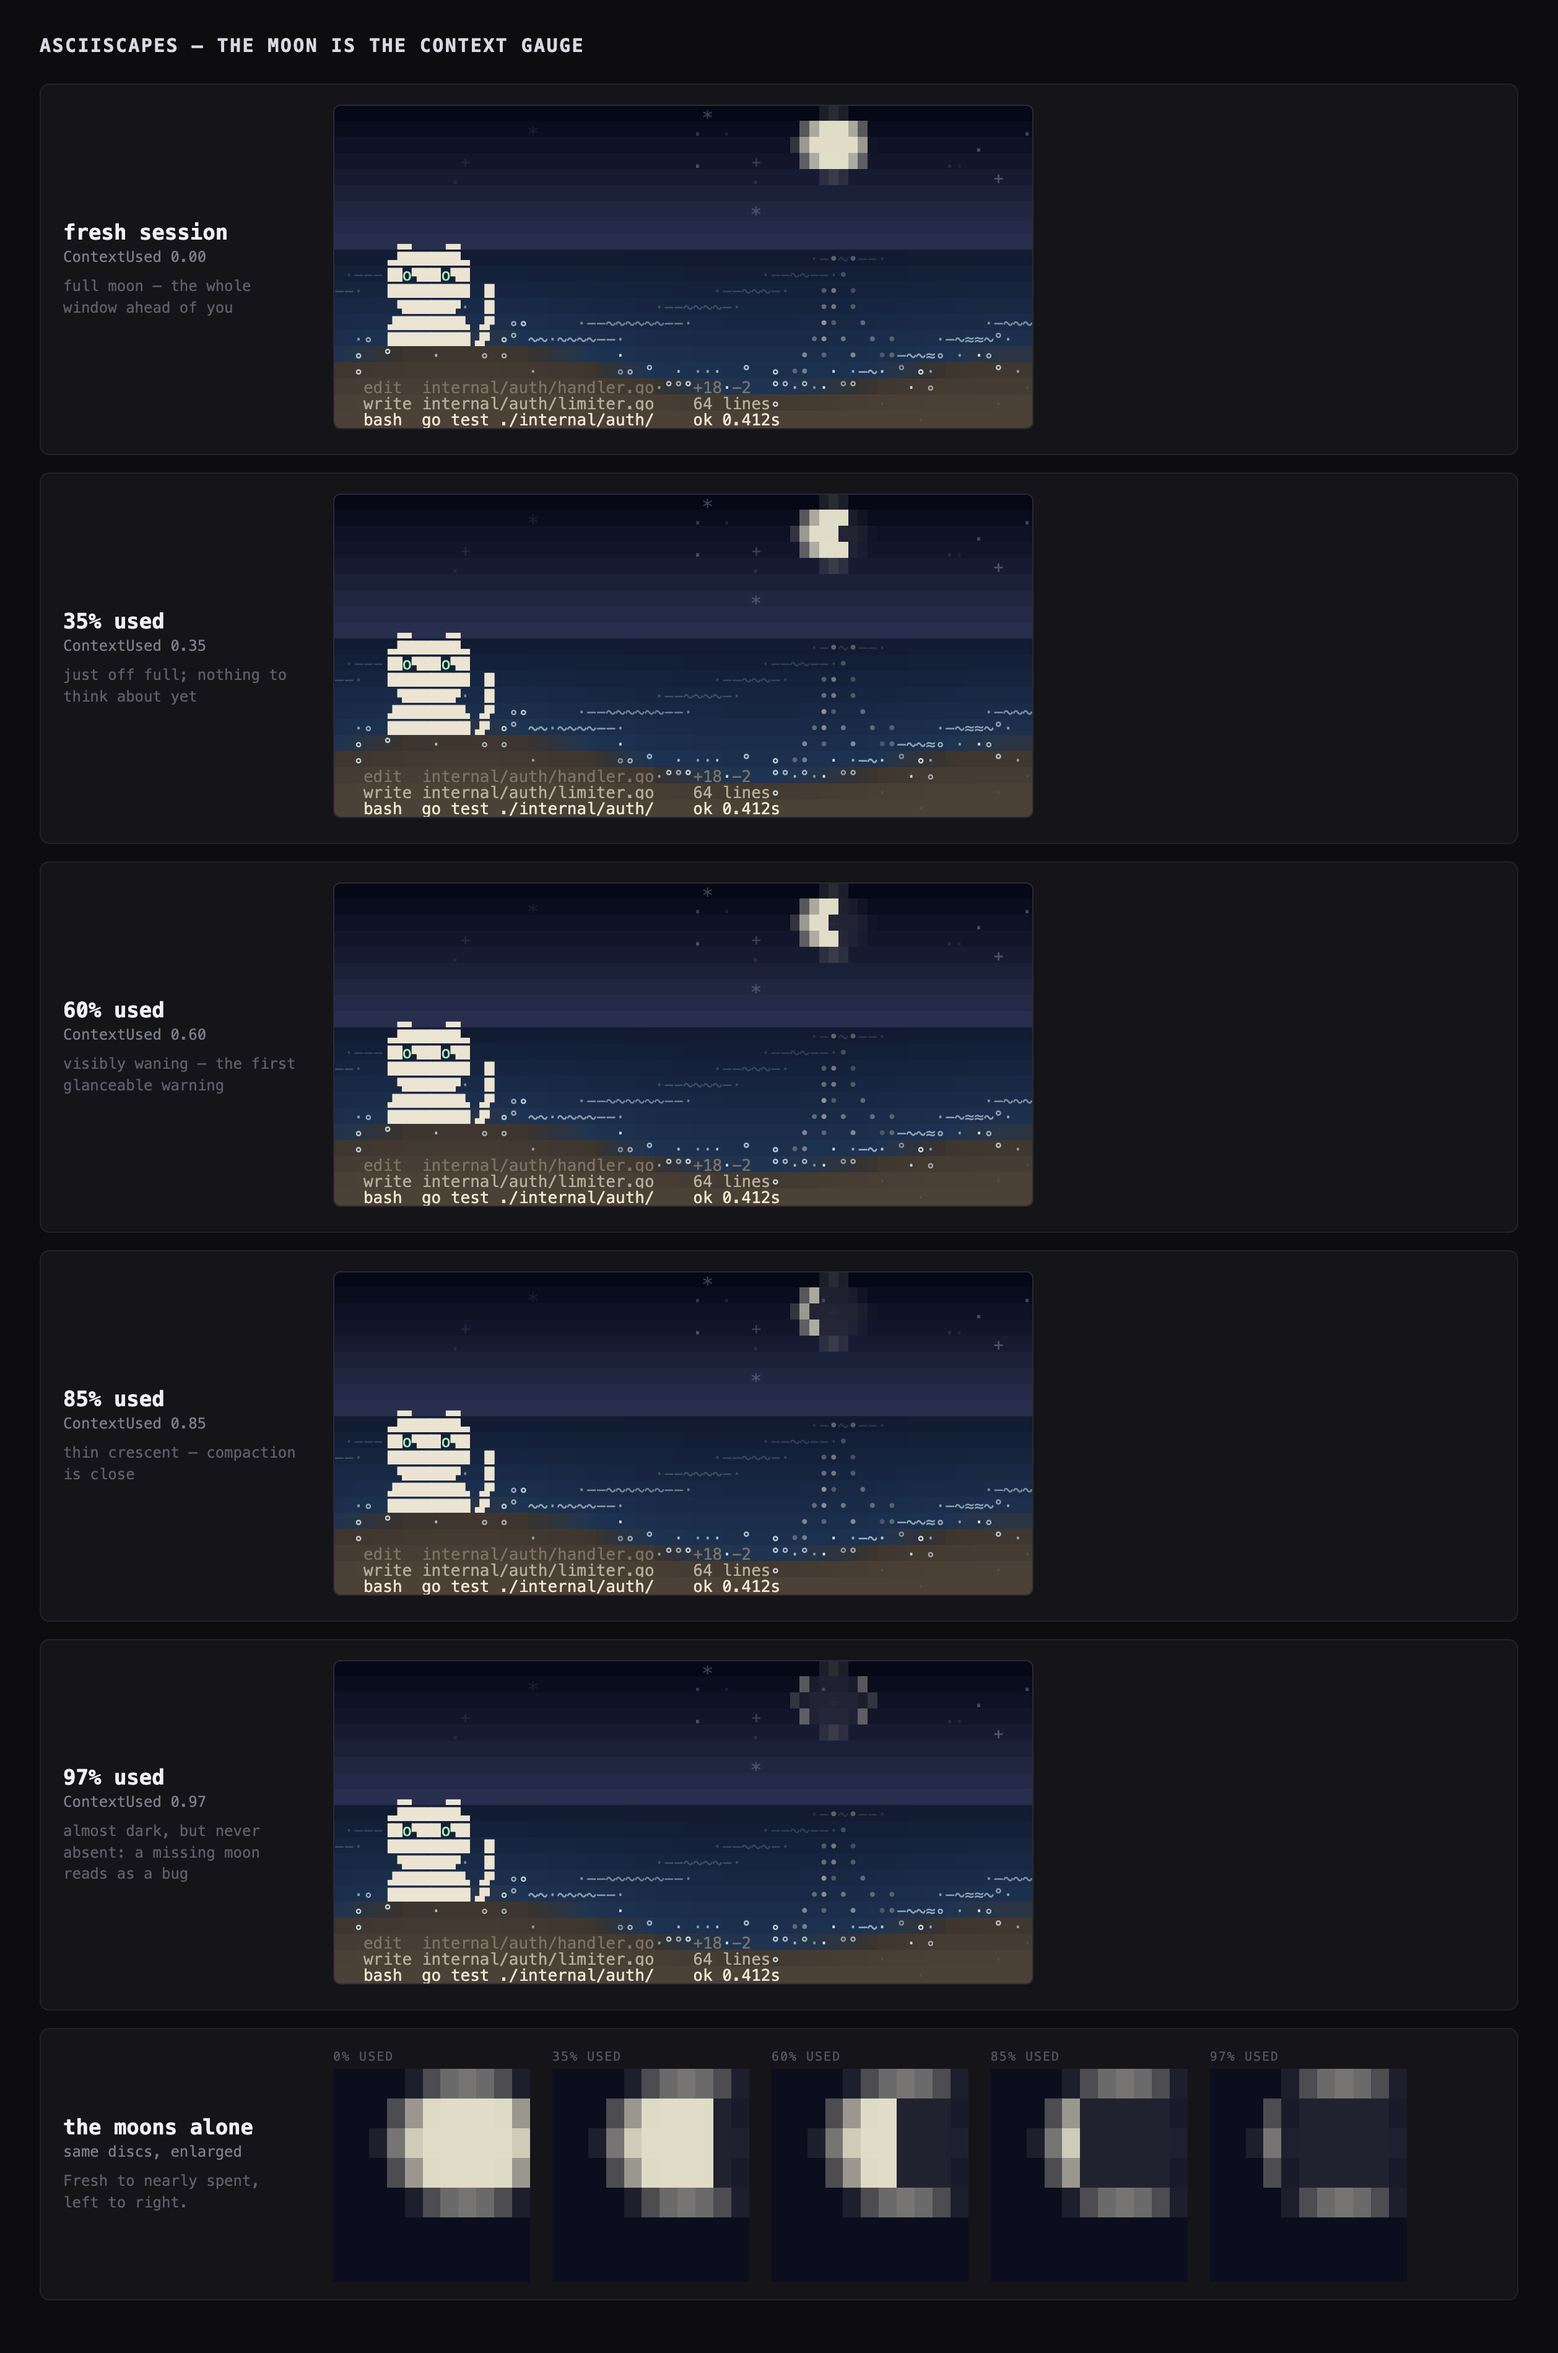
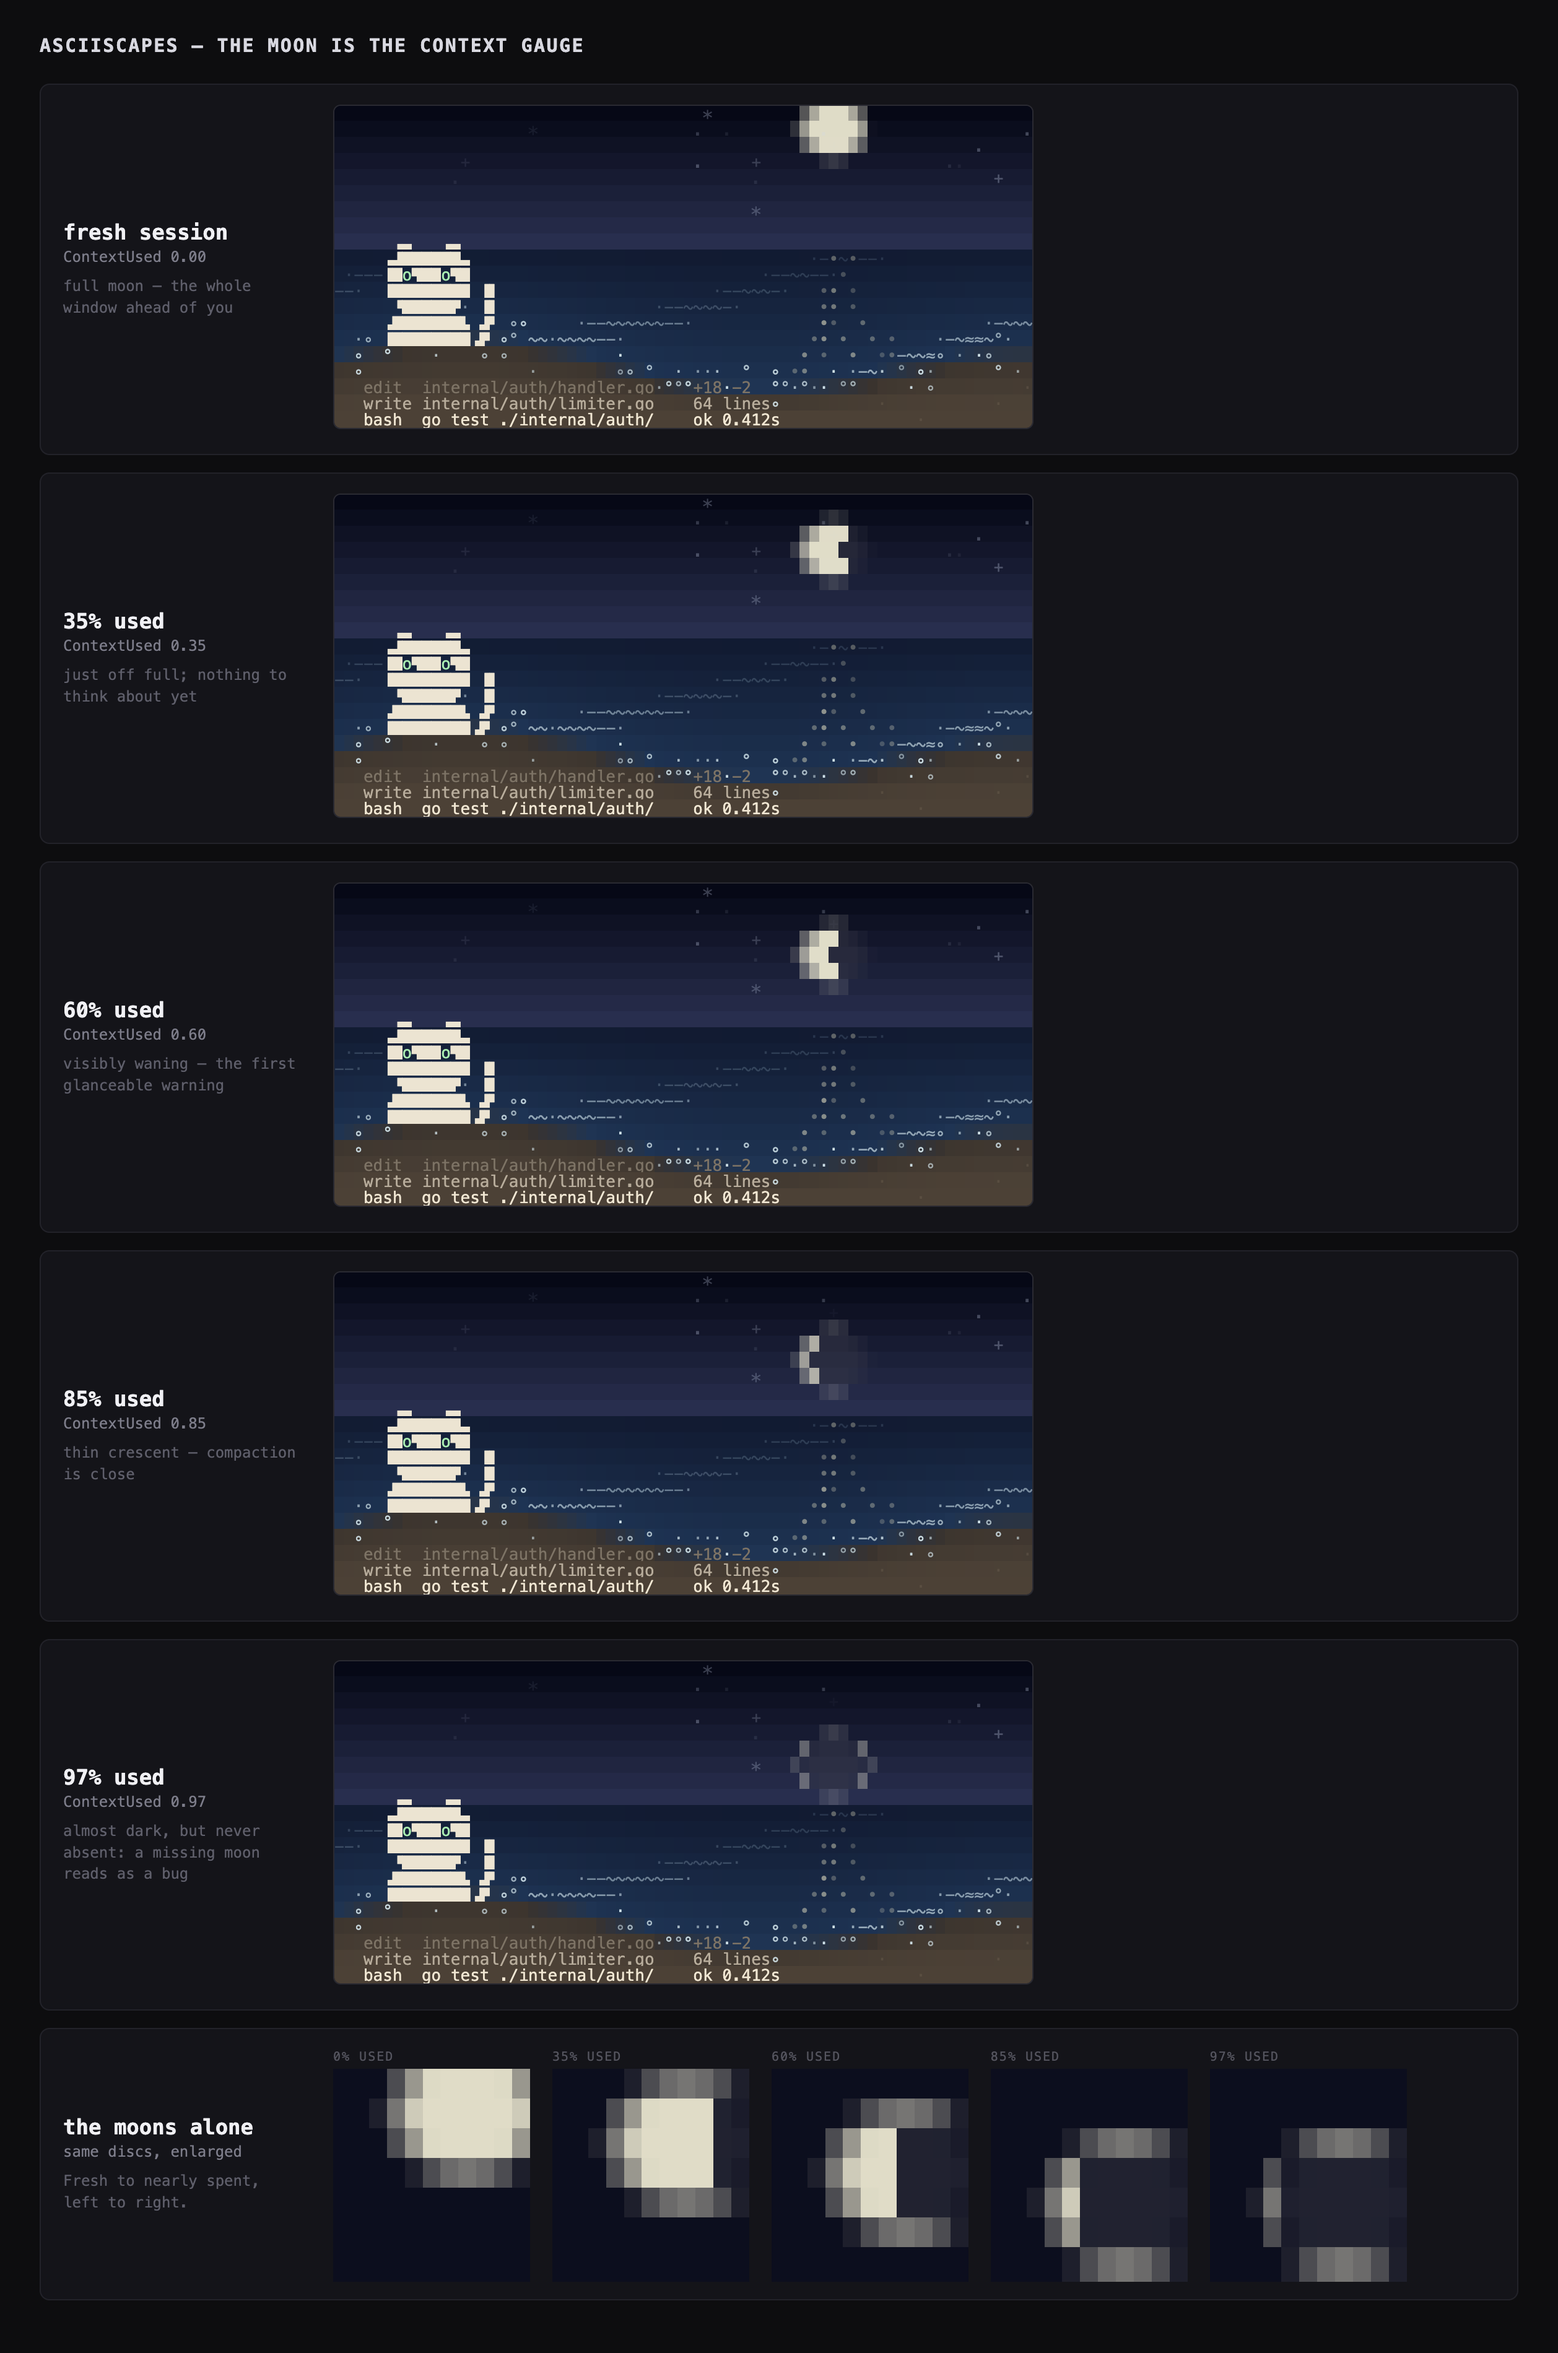
Live terminal mode, and the moon sinks as well as wanes
-live paints the scape in the real terminal until Ctrl-C, sizing itself
via stty rather than pulling in a dependency for one ioctl. It homes the
cursor and overwrites instead of clearing each frame, which is what
makes terminal animation flicker.

This is the only view that proves anything: the HTML harness models
glyph advances, a terminal paints a fixed cell grid, and the two
disagree about non-ASCII glyphs.

Verified: the static frame emits 318 256-colour SGRs and zero truecolor
in Terminal.app, so the TERM_PROGRAM gate holds end to end; the override
still reaches truecolor; the loop runs at 20fps.

The moon now carries context in altitude as well as phase. Shape alone
is hard to judge on a five-cell disc; height above the horizon is easy,
because the horizon is a reference line right there.

Claude-Session: https://claude.ai/code/session_019PBtf39rtmaj5ru2XNdm5i

diff --git a/live.go b/live.go
@@ -1,0 +1,86 @@
+package main
+
+import (
+	"fmt"
+	"os"
+	"os/exec"
+	"os/signal"
+	"strconv"
+	"strings"
+	"syscall"
+	"time"
+
+	"github.com/donlucasx/asciiscapes/internal/canvas"
+	"github.com/donlucasx/asciiscapes/internal/companion"
+	"github.com/donlucasx/asciiscapes/internal/scape"
+	"github.com/donlucasx/asciiscapes/internal/term"
+)
+
+// termSize asks stty rather than pulling in a dependency for one ioctl.
+// Falls back to the design target when it cannot tell.
+func termSize() (w, h int) {
+	out, err := exec.Command("stty", "size").Output()
+	if err == nil {
+		if f := strings.Fields(string(out)); len(f) == 2 {
+			if r, err1 := strconv.Atoi(f[0]); err1 == nil {
+				if c, err2 := strconv.Atoi(f[1]); err2 == nil && r > 4 && c > 8 {
+					return c, r
+				}
+			}
+		}
+	}
+	return 80, 24
+}
+
+// runLive paints the scape to this terminal until interrupted. This is the
+// only view that proves anything: the HTML harness models glyph advances, a
+// terminal paints a fixed cell grid, and they disagree about non-ASCII glyphs.
+func runLive(seed int64, fps float64, wIn, hIn int, ctxUsed float64, ascii bool) {
+	w, h := wIn, hIn
+	if w <= 0 || h <= 0 {
+		w, h = termSize()
+		h-- // leave the prompt a row to come back to
+	}
+
+	c := canvas.New(w, h, canvas.AlphaFar, canvas.AlphaMid, canvas.AlphaNear)
+	sh := scape.NewShore(seed, ascii)
+	cat := companion.NewCat()
+	_, chh := cat.Size()
+
+	restore := func() { fmt.Print("\x1b[?25h\x1b[0m\n") }
+	sig := make(chan os.Signal, 1)
+	signal.Notify(sig, os.Interrupt, syscall.SIGTERM)
+	go func() { <-sig; restore(); os.Exit(0) }()
+
+	fmt.Print("\x1b[?25l\x1b[2J") // hide cursor, clear once
+	defer restore()
+
+	profile := term.DetectProfile()
+	tick := time.NewTicker(time.Duration(float64(time.Second) / fps))
+	defer tick.Stop()
+
+	start := time.Now()
+	for range tick.C {
+		t := time.Since(start).Seconds()
+		// Swing through the states so every behaviour is visible in one sitting.
+		st, act := companion.Working, scape.Activity{Working: true, Level: 0.65, ContextUsed: ctxUsed}
+		switch phase := int(t/8) % 3; phase {
+		case 1:
+			st, act = companion.Resting, scape.Activity{ContextUsed: ctxUsed}
+		case 2:
+			st = companion.NeedsYou
+		}
+
+		sh.Update(c, t, act)
+		top := c.H - 2 - chh
+		cat.Draw(c.Near(), 5, top, t, st)
+		if st == companion.NeedsYou {
+			rows := companion.Bubble("tests passed")
+			(&companion.Sprite{Rows: rows, Body: bubbleCol}).Draw(c.Near(), 12, top-len(rows))
+		}
+
+		// Home the cursor and overwrite rather than clearing: clearing every
+		// frame is what makes a terminal animation flicker.
+		fmt.Print("\x1b[H" + c.Render(profile))
+	}
+}

diff --git a/main.go b/main.go
@@ -33,6 +33,8 @@ func main() {
 		strip   = flag.String("strip", "", "write a frame strip (for GIF assembly) to an HTML file")
 		layout  = flag.String("layout", "", "write the layout mockups to an HTML file")
 		ctxdemo = flag.String("context", "", "write the context-moon demo to an HTML file")
+		live    = flag.Bool("live", false, "paint the scape in THIS terminal until Ctrl-C")
+		ctxUsed = flag.Float64("ctx", 0, "context used, 0..1 (moon phase and altitude)")
 		mode    = flag.String("mode", "working", "strip mode: resting|working|needsyou|walk")
 	)
 	flag.Parse()
@@ -54,6 +56,18 @@ func main() {
 	c := canvas.New(*width, *height, canvas.AlphaFar, canvas.AlphaMid, canvas.AlphaNear)
 	sc := scape.NewShore(*seed, *asciiG)
 	profile := term.DetectProfile()
+
+	if *live {
+		wl, hl := 0, 0
+		if isSet("w") {
+			wl = *width
+		}
+		if isSet("h") {
+			hl = *height
+		}
+		runLive(*seed, *fps, wl, hl, *ctxUsed, *asciiG)
+		return
+	}
 
 	if *ctxdemo != "" {
 		if err := os.WriteFile(*ctxdemo, []byte(contextPage(*seed)), 0o644); err != nil {
@@ -130,4 +144,16 @@ func main() {
 			fmt.Println()
 		}
 	}
+}
+
+// isSet reports whether a flag was given explicitly, so -live can size itself
+// to the real terminal unless told otherwise.
+func isSet(name string) bool {
+	found := false
+	flag.Visit(func(f *flag.Flag) {
+		if f.Name == name {
+			found = true
+		}
+	})
+	return found
 }

diff --git a/internal/scape/shore.go b/internal/scape/shore.go
@@ -148,7 +148,11 @@ func clamp01(v float64) float64 {
 // a missing moon reads as a bug, a dark moon reads as a warning.
 func (s *Shore) moon(c *canvas.Canvas, hy int, scale, lit float64) {
 	mx := int(float64(c.W) * 0.72)
-	my := int(float64(hy) * 0.34)
+	// Altitude carries context too, alongside phase. Shape alone is hard to
+	// judge on a five-cell disc; height above the horizon is easy, because the
+	// horizon is a reference line right there. Two cues for one variable is
+	// what makes it readable at a glance rather than on inspection.
+	my := int(float64(hy) * (0.22 + 0.62*(1-lit)))
 	if my < 1 {
 		my = 1
 	}
